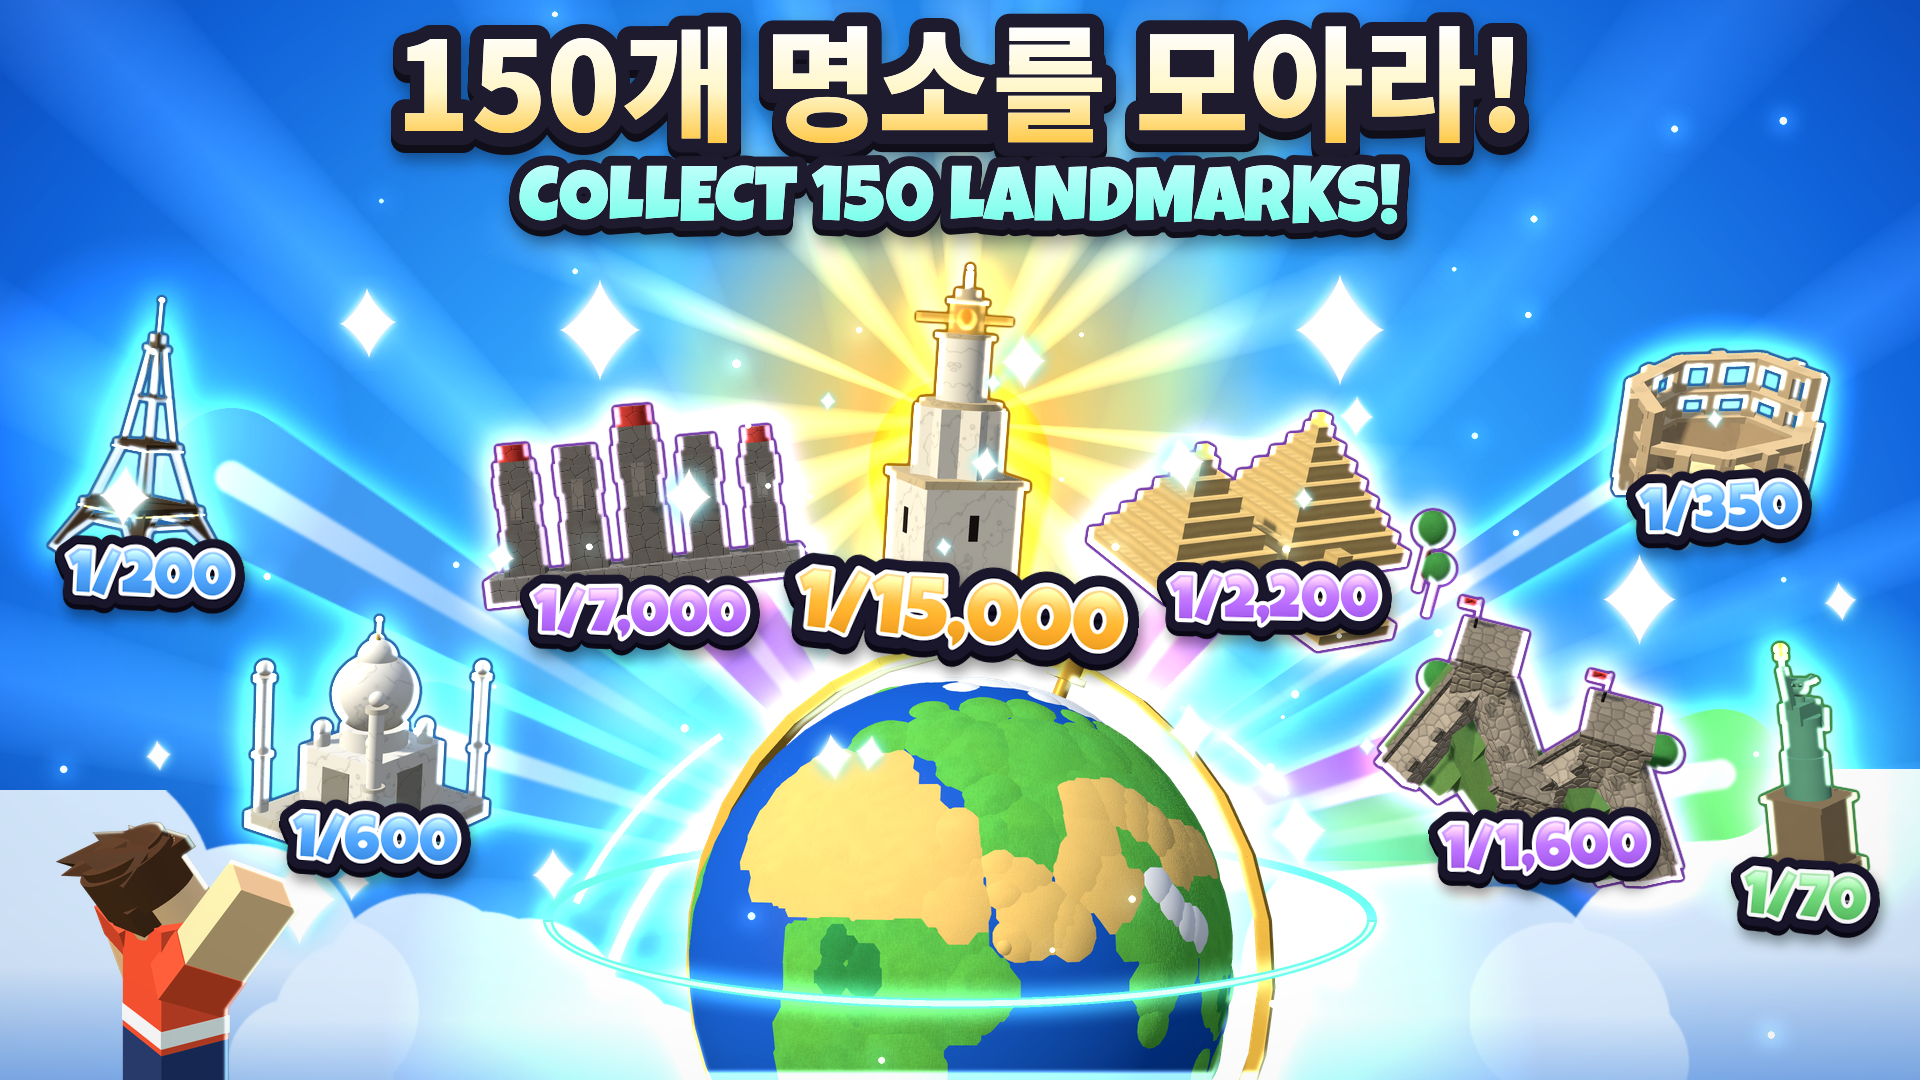
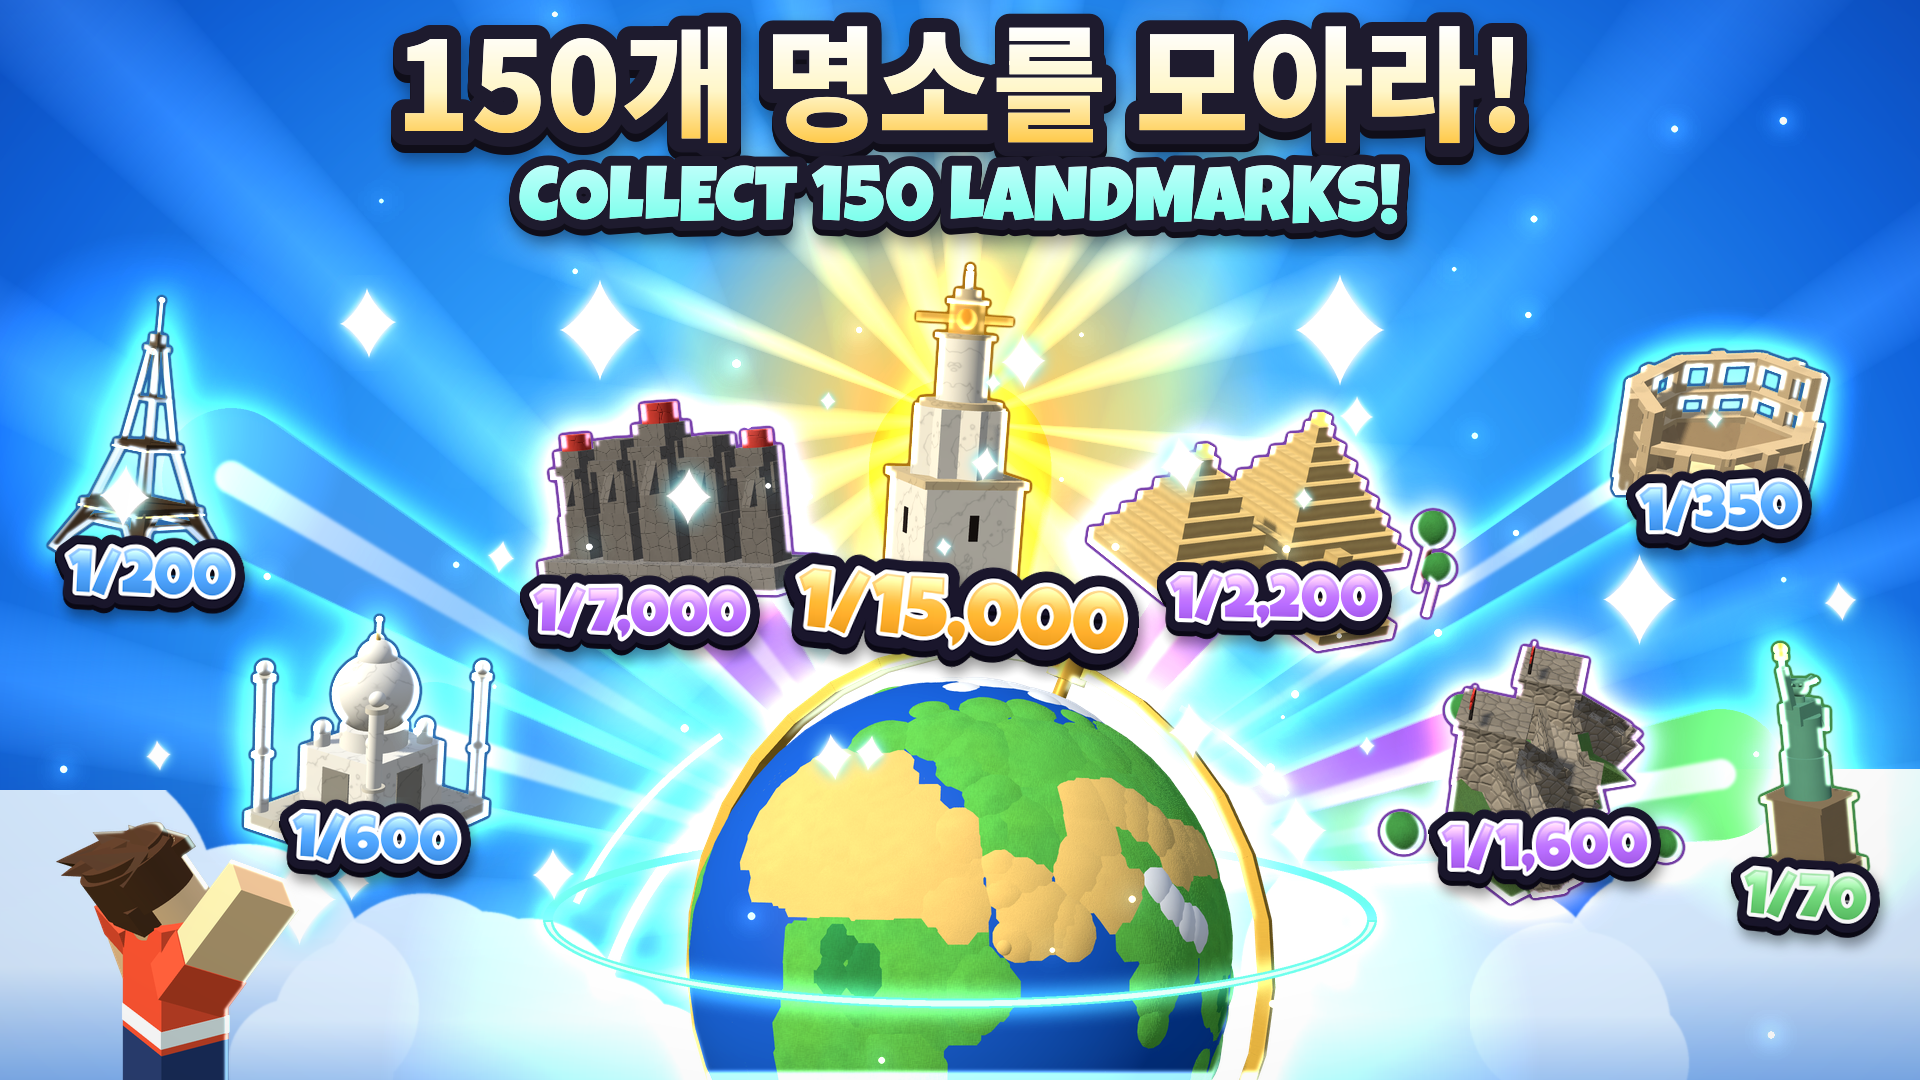
wip(roblox-rng): 스토어 그림 다듬기 작업 중 중간 저장
Claude-Session: https://claude.ai/code/session_01FVo6f3bAZ7ajFJcNzmyJde

Changed region(s): [[0.6875, 0.5194, 0.9062, 0.8556], [0.2188, 0.3361, 0.4375, 0.6111]]

diff --git a/roblox-rng/tools/store/thumbs.py b/roblox-rng/tools/store/thumbs.py
@@ -218,12 +218,15 @@ def add_ribbon(im, a, color, core=None, deep=None, front=False):
     return fx.over(im, fx.solid((W, H), core, thin))
 
 
-def scatter_sparkles(im, rects, count, seed, color=WHITE, glow_color=fx.MINT, rmin=8, rmax=46, big=()):
+def scatter_sparkles(im, rects, count, seed, color=WHITE, glow_color=fx.MINT, rmin=8, rmax=46, big=(), avoid=None):
+    """반짝이 흩뿌리기. avoid(알파 0~1, H x W) 가 있으면 그 위(명소 모형 등)에는 두지 않음."""
     rnd = random.Random(seed)
     for _ in range(count):
         x0, y0, x1, y1 = rnd.choice(rects)
         x, y = rnd.uniform(x0, x1), rnd.uniform(y0, y1)
         r = rmin + (rmax - rmin) * rnd.random() ** 2.2
+        if avoid is not None and avoid[int(np.clip(y, 0, H - 1)), int(np.clip(x, 0, W - 1))] > 0.05:
+            continue
         s = fx.sparkle_sprite(r, color, glow_color, rot=rnd.uniform(-0.15, 0.15))
         im = fx.over(im, s, (x - s.width / 2, y - s.height / 2))
     for (x, y, r) in big:
@@ -788,9 +791,9 @@ def model_heights(ids, size=10.0):
 # 가장 희귀한 것(알렉산드리아 등대 1/15,000)을 가운데 위에 가장 크게, 흔한 것일수록 바깥·작게. 받침(판)은 뺌.
 COLLECT = [
     ("alexandria", 960, 420, 350, 100, 24, -4, 10),
-    ("moai", 640, 500, 205, 104, 10, 5, 6),  # 얼굴이 보이게(앞 = 카메라 쪽, 거의 정면)
+    ("moai", 640, 500, 205, 104, -30, 4, 8),  # 얼굴이 보이게(앞 = 카메라 쪽, 비스듬히 — 눈썹·코 옆모습)
     ("pyramid", 1275, 500, 175, 104, 28, -6, 24),
-    ("greatwall", 1545, 735, 200, 100, -32, 7, 40),  # 위에서 비스듬히: 성벽이 대각선 줄 + 성가퀴
+    ("greatwall", 1545, 725, 215, 100, -90, 8, 35),  # 위에서 비스듬히: 성가퀴 달린 성벽 길이 대각선으로 망루까지
     ("tajmahal", 375, 720, 215, 100, -20, -7, 10),
     ("colosseum", 1720, 420, 150, 100, 18, 8, 30),
     ("eiffel", 150, 430, 265, 100, -16, -9, 6),
@@ -953,8 +956,12 @@ def thumb_collect():
         im = fx.over(im, layer)
         im = fx.add(im, edge_light(layer, lighten(col, 0.6), (-5, 3), 1.2, 1.2), 0.9)
         im = fx.add(im, edge_light(layer, lighten(col, 0.6), (5, 3), 1.2, 1.2), 0.9)
-    im = scatter_sparkles(im, [(60, 280, 1860, 900)], 26, seed=81, glow_color=(150, 235, 255), rmin=7, rmax=28,
-                          big=[(600, 330, 40), (1340, 330, 44), (300, 900, 36), (1640, 600, 36), (820, 600, 30)])
+    models_a = np.zeros((H, W), np.float32)
+    for lid in placed:
+        models_a = np.maximum(models_a, fx.dilate(lay[f"L_{lid}"], 12))
+    im = scatter_sparkles(im, [(60, 280, 1860, 900)], 30, seed=81, glow_color=(150, 235, 255), rmin=7, rmax=28,
+                          big=[(600, 330, 40), (1340, 330, 44), (300, 900, 36), (1640, 600, 36), (820, 600, 30)],
+                          avoid=models_a)
     im = fx.add(im, fx.particles((W, H), (gx, gy - gr), 110, (1.5, 4), WHITE, seed=82, spread=(0.1, 0.5),
                                  glow_color=(150, 235, 255)), 1.0)
     # 아바타(왼쪽 아래, 올려다봄)
